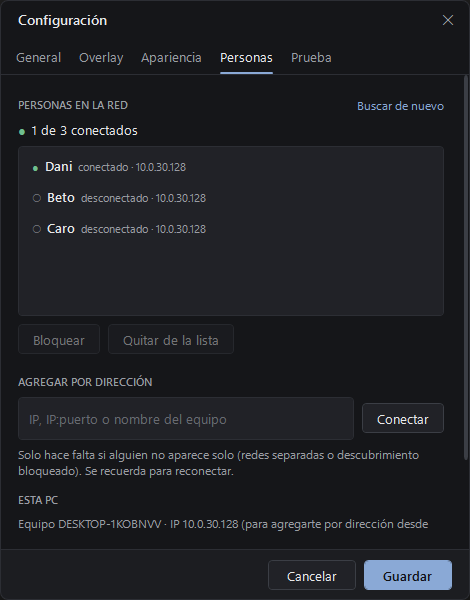
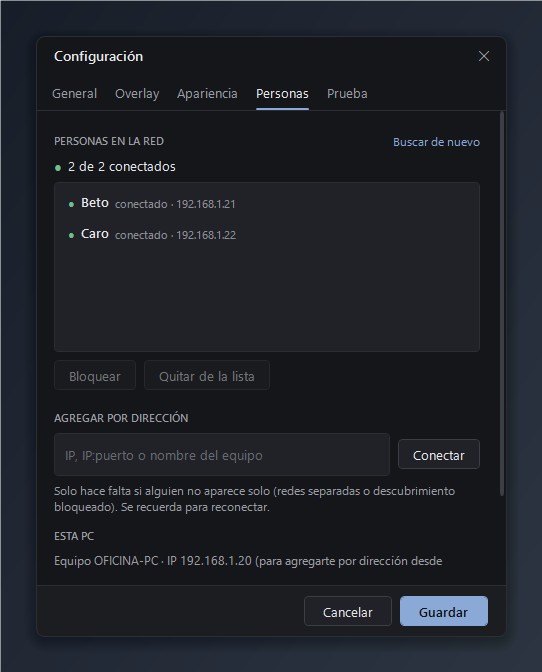
Mensajes importantes: se cierran con un clic (antes «urgentes»); versión 2.0.0
- El botón y la etiqueta pasan de «Urgente» a «Importante» (Ctrl+I; Ctrl+U sigue funcionando).

- Los importantes quedan en pantalla hasta que se les hace clic: reciben el clic pero no toman el foco (MA_NOACTIVATE). El «Visto» se envía al hacer clic.

- Capturas actualizadas sin datos del equipo; README, PROTOCOL y CLAUDE.md al día.

diff --git a/src/Susurro.App/Views/SettingsWindow.xaml b/src/Susurro.App/Views/SettingsWindow.xaml
@@ -124,7 +124,7 @@
 
                         <StackPanel Orientation="Horizontal" Margin="0,16,0,0">
                             <Button Content="Probar" Click="TestNormal_Click" MinWidth="88" ToolTip="Muestra un mensaje de prueba con esta configuración (sin guardar)" />
-                            <Button Content="Probar urgente" Click="TestUrgent_Click" Margin="8,0,0,0" />
+                            <Button Content="Probar importante" Click="TestUrgent_Click" Margin="8,0,0,0" />
                         </StackPanel>
                     </StackPanel>
                 </ScrollViewer>
@@ -177,18 +177,18 @@
                         <TextBlock Style="{StaticResource Caption}" Margin="0,2,0,0"
                                    Text="Sin recuadro, el texto flota como un subtítulo de película; conviene dejar activado el contorno para que se lea sobre fondos claros." />
 
-                        <TextBlock Text="URGENTES Y ACCESIBILIDAD" Style="{StaticResource SectionHeader}" />
+                        <TextBlock Text="IMPORTANTES Y ACCESIBILIDAD" Style="{StaticResource SectionHeader}" />
                         <Grid Style="{StaticResource Row}">
                             <Grid.ColumnDefinitions><ColumnDefinition Width="150" /><ColumnDefinition /></Grid.ColumnDefinitions>
-                            <TextBlock Text="Mensajes urgentes" Style="{StaticResource FieldLabel}" />
+                            <TextBlock Text="Mensajes importantes" Style="{StaticResource FieldLabel}" />
                             <ComboBox x:Name="UrgentCombo" Grid.Column="1" SelectionChanged="Appearance_Changed" />
                         </Grid>
                         <CheckBox x:Name="ContrastBox" Content="Alto contraste" Margin="0,8,0,5" Checked="Appearance_Changed" Unchecked="Appearance_Changed" />
 
                         <StackPanel Orientation="Horizontal" Margin="0,14,0,0">
                             <Button Content="Probar en pantalla" Click="TestNormal_Click" />
-                            <Button Content="Probar urgente" Click="TestUrgent_Click" Margin="8,0,0,0" />
-                            <Button x:Name="PreviewUrgentButton" Content="Ver urgente en la vista previa" Style="{StaticResource LinkButton}" Margin="14,0,0,0" FontSize="12" Click="PreviewUrgent_Click" />
+                            <Button Content="Probar importante" Click="TestUrgent_Click" Margin="8,0,0,0" />
+                            <Button x:Name="PreviewUrgentButton" Content="Ver importante en la vista previa" Style="{StaticResource LinkButton}" Margin="14,0,0,0" FontSize="12" Click="PreviewUrgent_Click" />
                         </StackPanel>
                     </StackPanel>
                 </ScrollViewer>
@@ -250,7 +250,7 @@
                                    Text="Muestra un mensaje solo en esta PC, con la configuración actual de la pestaña Overlay (aunque todavía no esté guardada)." />
                         <StackPanel Orientation="Horizontal">
                             <Button Content="Mostrar mensaje de prueba" Style="{StaticResource PrimaryButton}" Click="TestNormal_Click" />
-                            <Button Content="Probar urgente" Click="TestUrgent_Click" Margin="8,0,0,0" />
+                            <Button Content="Probar importante" Click="TestUrgent_Click" Margin="8,0,0,0" />
                         </StackPanel>
 
                         <TextBlock Text="DIAGNÓSTICO" Style="{StaticResource SectionHeader}" />

diff --git a/src/Susurro.App/Views/MainWindow.xaml b/src/Susurro.App/Views/MainWindow.xaml
@@ -59,8 +59,8 @@
                      AutomationProperties.Name="Mensaje" />
 
             <Grid Margin="0,10,0,0">
-                <ToggleButton x:Name="UrgentToggle" Style="{StaticResource ChipToggle}" Content="Urgente" HorizontalAlignment="Left"
-                              ToolTip="Enviar como urgente (Ctrl+U)" FontSize="12" />
+                <ToggleButton x:Name="UrgentToggle" Style="{StaticResource ChipToggle}" Content="Importante" HorizontalAlignment="Left"
+                              ToolTip="Mensaje importante: queda en pantalla hasta que la otra persona le haga clic (Ctrl+I)" FontSize="12" />
                 <TextBlock x:Name="Counter" HorizontalAlignment="Center" VerticalAlignment="Center" FontSize="11"
                            Foreground="{StaticResource FaintBrush}" Visibility="Collapsed" />
                 <Button x:Name="SendButton" Style="{StaticResource PrimaryButton}" HorizontalAlignment="Right" MinWidth="96" Click="Send_Click"

diff --git a/src/Susurro.App/Themes/Dark.xaml b/src/Susurro.App/Themes/Dark.xaml
@@ -193,7 +193,7 @@
         </Setter>
     </Style>
 
-    <!-- Chip conmutable ("Urgente"). -->
+    <!-- Chip conmutable ("Importante"). -->
     <Style x:Key="ChipToggle" TargetType="ToggleButton">
         <Setter Property="Foreground" Value="{StaticResource MutedBrush}" />
         <Setter Property="Height" Value="26" />

diff --git a/src/Susurro.App/Overlay/OverlayHost.cs b/src/Susurro.App/Overlay/OverlayHost.cs
@@ -16,7 +16,9 @@ namespace Susurro.App.Overlay;
 /// Se implementa con un <see cref="HwndSource"/> (no un Window de WPF) para controlar exactamente
 /// los estilos Win32:
 ///  - WS_EX_NOACTIVATE + SW_SHOWNOACTIVATE: nunca roba el foco del teclado.
-///  - WS_EX_TRANSPARENT + ventana en capas: los clics atraviesan el overlay.
+///  - WS_EX_TRANSPARENT + ventana en capas: los clics atraviesan el overlay. Excepción: los mensajes
+///    importantes reciben el clic (para cerrarlos), pero siguen sin activarse ni tomar el foco
+///    (WS_EX_NOACTIVATE + MA_NOACTIVATE).
 ///  - WS_EX_TOOLWINDOW sin propietario: no aparece en Alt+Tab ni en la barra de tareas.
 ///  - WS_EX_TOPMOST: por encima de las ventanas normales.
 /// Se crea directamente sobre el monitor destino, así WPF adopta el DPI de ese monitor
@@ -29,18 +31,20 @@ internal sealed class OverlayHost : IDisposable
     private readonly Border _card;
     private readonly TranslateTransform _shift = new();
     private readonly bool _animate;
+    private readonly bool _clickToClose;
     private bool _disposed;
 
     public OverlayHost(WhisperMessage message, OverlaySettings settings)
     {
         var monitor = MonitorService.Resolve(settings.Monitor);
         _animate = settings.Animations && SystemParameters.ClientAreaAnimation;
+        _clickToClose = message.Urgent;
 
         var parameters = new HwndSourceParameters("SusurroOverlay")
         {
             WindowStyle = NativeMethods.WS_POPUP,
             ExtendedWindowStyle = NativeMethods.WS_EX_TOPMOST | NativeMethods.WS_EX_TOOLWINDOW |
-                                  NativeMethods.WS_EX_NOACTIVATE | NativeMethods.WS_EX_TRANSPARENT,
+                                  NativeMethods.WS_EX_NOACTIVATE | (_clickToClose ? 0 : NativeMethods.WS_EX_TRANSPARENT),
             UsesPerPixelTransparency = true,
             // Crear la ventana (oculta) dentro del monitor destino para heredar su DPI.
             PositionX = monitor.WorkArea.Left + monitor.WorkArea.Width / 2,
@@ -50,11 +54,17 @@ internal sealed class OverlayHost : IDisposable
         };
         _source = new HwndSource(parameters) { SizeToContent = SizeToContent.Manual };
         _source.AddHook(WndProc);
-        EnsureExStyles(_source.Handle);
+        EnsureExStyles(_source.Handle, _clickToClose);
 
         _card = SubtitleVisual.Build(message, settings);
         _card.RenderTransform = _shift;
-        var root = new Grid { Background = Brushes.Transparent, IsHitTestVisible = false };
+        var root = new Grid { Background = Brushes.Transparent, IsHitTestVisible = _clickToClose };
+        if (_clickToClose)
+        {
+            _card.Cursor = System.Windows.Input.Cursors.Hand;
+            _card.MouseLeftButtonUp += (_, _) => Dismissed?.Invoke();
+            _card.MouseRightButtonUp += (_, _) => Dismissed?.Invoke();
+        }
         root.Children.Add(_card);
         _source.RootVisual = root;
 
@@ -62,6 +72,9 @@ internal sealed class OverlayHost : IDisposable
     }
 
     public IntPtr Handle => _source.Handle;
+
+    /// <summary>Se hizo clic en un mensaje importante (solo esos reciben clics).</summary>
+    public event Action? Dismissed;
 
     public void Show()
     {
@@ -184,22 +197,23 @@ internal sealed class OverlayHost : IDisposable
         NativeMethods.SetWindowPos(_source.Handle, NativeMethods.HWND_TOPMOST, x, y, w, h, NativeMethods.SWP_NOACTIVATE);
     }
 
-    private static void EnsureExStyles(IntPtr hwnd)
+    private static void EnsureExStyles(IntPtr hwnd, bool clickable)
     {
         var ex = NativeMethods.GetWindowLongPtr(hwnd, NativeMethods.GWL_EXSTYLE).ToInt64();
-        ex |= NativeMethods.WS_EX_TOPMOST | NativeMethods.WS_EX_TOOLWINDOW | NativeMethods.WS_EX_NOACTIVATE |
-              NativeMethods.WS_EX_TRANSPARENT | NativeMethods.WS_EX_LAYERED;
+        ex |= NativeMethods.WS_EX_TOPMOST | NativeMethods.WS_EX_TOOLWINDOW | NativeMethods.WS_EX_NOACTIVATE | NativeMethods.WS_EX_LAYERED;
+        if (clickable) ex &= ~(long)NativeMethods.WS_EX_TRANSPARENT;
+        else ex |= NativeMethods.WS_EX_TRANSPARENT;
         NativeMethods.SetWindowLongPtr(hwnd, NativeMethods.GWL_EXSTYLE, new IntPtr(ex));
     }
 
-    private static IntPtr WndProc(IntPtr hwnd, int msg, IntPtr wParam, IntPtr lParam, ref bool handled)
+    private IntPtr WndProc(IntPtr hwnd, int msg, IntPtr wParam, IntPtr lParam, ref bool handled)
     {
         switch (msg)
         {
             case NativeMethods.WM_MOUSEACTIVATE:
                 handled = true;
                 return new IntPtr(NativeMethods.MA_NOACTIVATE);
-            case NativeMethods.WM_NCHITTEST:
+            case NativeMethods.WM_NCHITTEST when !_clickToClose:
                 handled = true;
                 return new IntPtr(NativeMethods.HTTRANSPARENT);
         }

diff --git a/src/Susurro.App/Overlay/SubtitleVisual.cs b/src/Susurro.App/Overlay/SubtitleVisual.cs
@@ -31,7 +31,9 @@ internal static class SubtitleVisual
         var background = s.ShowBackground || hc;
         var alpha = (byte)Math.Round(255 * (hc ? Math.Max(0.95, s.Opacity) : s.Opacity));
 
-        Brush bg = !background ? Brushes.Transparent
+        // Los importantes se cierran con un clic: sin recuadro se usa un fondo casi invisible
+        // (alfa 1) para que toda la tarjeta reciba el clic y no solo las letras.
+        Brush bg = !background ? (urgent ? new SolidColorBrush(Color.FromArgb(1, 0, 0, 0)) : Brushes.Transparent)
             : hc ? new SolidColorBrush(Color.FromArgb(alpha, 0, 0, 0))
             : urgent && s.UrgentStyle == UrgentStyle.Tinted ? new SolidColorBrush(Color.FromArgb(alpha, 38, 27, 16))
             : new SolidColorBrush(Color.FromArgb(alpha, 17, 18, 21));
@@ -51,9 +53,9 @@ internal static class SubtitleVisual
 
         string? label = null;
         if (s.ShowSenderName && !string.IsNullOrWhiteSpace(message.SenderName))
-            label = urgent ? $"{message.SenderName} · urgente" : message.SenderName;
+            label = urgent ? $"{message.SenderName} · importante" : message.SenderName;
         else if (urgent)
-            label = "urgente";
+            label = "importante";
 
         if (label != null)
         {
@@ -83,6 +85,19 @@ internal static class SubtitleVisual
             Tag = "text",
         };
         panel.Children.Add(text);
+
+        if (urgent)
+        {
+            panel.Children.Add(new TextBlock
+            {
+                Text = "Clic para cerrar",
+                Foreground = new SolidColorBrush(labelColor) { Opacity = 0.85 },
+                FontFamily = Font,
+                HorizontalAlignment = HorizontalAlignment.Center,
+                TextAlignment = TextAlignment.Center,
+                Tag = "hint",
+            });
+        }
 
         if (s.TextOutline && !hc)
         {
@@ -118,6 +133,11 @@ internal static class SubtitleVisual
             {
                 tb.FontSize = Math.Max(10, Math.Round(size * 0.5));
                 tb.Margin = new Thickness(0, 0, 0, Math.Round(size * 0.2));
+            }
+            else if ((string)tb.Tag == "hint")
+            {
+                tb.FontSize = Math.Max(10, Math.Round(size * 0.45));
+                tb.Margin = new Thickness(0, Math.Round(size * 0.3), 0, 0);
             }
             else
             {

diff --git a/src/Susurro.App/Overlay/OverlayController.cs b/src/Susurro.App/Overlay/OverlayController.cs
@@ -9,7 +9,8 @@ namespace Susurro.App.Overlay;
 
 /// <summary>
 /// Orquesta el overlay: un mensaje a la vez, cola acotada, temporizadores de un solo disparo
-/// (sin bucles ni sondeo). Todo ocurre en el hilo de UI.
+/// (sin bucles ni sondeo). Los mensajes normales se van solos; los importantes quedan hasta que
+/// se les hace clic (mientras tanto, los que llegan esperan en la cola). Todo ocurre en el hilo de UI.
 /// </summary>
 internal sealed class OverlayController
 {
@@ -85,9 +86,12 @@ internal sealed class OverlayController
         }
 
         var settings = _overrides.Remove(next.Id, out var preview) ? preview : _settings;
+        // Los importantes quedan en pantalla hasta que se les hace clic.
+        var clickToClose = next.Urgent;
         try
         {
             _host = new OverlayHost(next, settings);
+            if (clickToClose) _host.Dismissed += OnDismissed;
             _host.Show();
         }
         catch (Exception ex)
@@ -100,13 +104,27 @@ internal sealed class OverlayController
             return;
         }
 
-        try { _onShown(next); }
-        catch (Exception ex) { Log.Error("overlay", "Error notificando mensaje mostrado", ex); }
+        if (clickToClose) return; // "Visto" y cierre, al hacer clic
+
+        NotifyShown(next);
 
         // Duración configurada + un poco de tiempo de lectura para textos largos (máx. +4 s).
         var extra = Math.Clamp((next.Text.Length - 80) / 40.0, 0, 4);
         _hold.Interval = TimeSpan.FromSeconds(settings.DurationSeconds + extra);
         _hold.Start();
+    }
+
+    private void OnDismissed()
+    {
+        if (_hiding || _host == null) return;
+        if (_queue.Current is { } current) NotifyShown(current); // para un importante, "Visto" = le hicieron clic
+        EndCurrent();
+    }
+
+    private void NotifyShown(WhisperMessage message)
+    {
+        try { _onShown(message); }
+        catch (Exception ex) { Log.Error("overlay", "Error notificando mensaje mostrado", ex); }
     }
 
     private void EndCurrent()

diff --git a/src/Susurro.Core/Net/PeerLink.cs b/src/Susurro.Core/Net/PeerLink.cs
@@ -425,7 +425,7 @@ public sealed class PeerLink : IAsyncDisposable
                     if (stillQueued) m.SentOnSession = s.Number;
                 }
                 if (!stillQueued) continue;
-                Log.Info("msg", $"Mensaje enviado a {peer.Contact.Name} [{m.Id[..8]}] ({m.Packet.Text?.Length ?? 0} caracteres{(m.Packet.Urgent == true ? ", urgente" : "")})");
+                Log.Info("msg", $"Mensaje enviado a {peer.Contact.Name} [{m.Id[..8]}] ({m.Packet.Text?.Length ?? 0} caracteres{(m.Packet.Urgent == true ? ", importante" : "")})");
                 DeliveryChanged?.Invoke(m.Id, DeliveryState.Sent);
             }
         }
@@ -539,7 +539,7 @@ public sealed class PeerLink : IAsyncDisposable
         if (sender.Length == 0) sender = session.PeerName;
         else if (sender != session.PeerName) UpdatePeerInfo(session, sender);
         var message = new WhisperMessage(id, text, sender, sentAt, p.Urgent == true, p.Seq ?? 0, p.Receipt == true, SenderId: session.PeerId);
-        Log.Info("msg", $"Mensaje recibido de {sender} [{id[..8]}] ({text.Length} caracteres{(message.Urgent ? ", urgente" : "")})");
+        Log.Info("msg", $"Mensaje recibido de {sender} [{id[..8]}] ({text.Length} caracteres{(message.Urgent ? ", importante" : "")})");
         MessageReceived?.Invoke(message);
     }
 

diff --git a/src/Susurro.App/Views/SettingsWindow.xaml.cs b/src/Susurro.App/Views/SettingsWindow.xaml.cs
@@ -435,7 +435,7 @@ public partial class SettingsWindow : Window
     private void PreviewUrgent_Click(object sender, RoutedEventArgs e)
     {
         _previewUrgent = !_previewUrgent;
-        PreviewUrgentButton.Content = _previewUrgent ? "Ver mensaje normal en la vista previa" : "Ver urgente en la vista previa";
+        PreviewUrgentButton.Content = _previewUrgent ? "Ver mensaje normal en la vista previa" : "Ver importante en la vista previa";
         UpdatePreview();
     }
 

diff --git a/src/Susurro.App/Views/MainWindow.xaml.cs b/src/Susurro.App/Views/MainWindow.xaml.cs
@@ -323,7 +323,7 @@ public partial class MainWindow : Window
             e.Handled = true;
             _app.HideMain();
         }
-        else if (e.Key == Key.U && Keyboard.Modifiers == ModifierKeys.Control)
+        else if (e.Key is Key.I or Key.U && Keyboard.Modifiers == ModifierKeys.Control) // Ctrl+I (Ctrl+U por costumbre)
         {
             e.Handled = true;
             UrgentToggle.IsChecked = UrgentToggle.IsChecked != true;

diff --git a/README.md b/README.md
@@ -28,7 +28,8 @@ Sin servidor · sin nube · sin cuentas · sin códigos · sin sonidos · sin ro
 
 Elegís a quién (o a todos los conectados), escribís y, en su PC, el mensaje aparece unos segundos
 **por encima de todo**, como un subtítulo. Quien lo recibe puede seguir escribiendo en Word, en el navegador o en Visual Studio:
-Susurro **no toma el foco, no captura el mouse ni el teclado, no aparece en Alt+Tab** y los clics lo atraviesan.
+Susurro **no toma el foco, no captura el mouse ni el teclado, no aparece en Alt+Tab** y los clics lo atraviesan. Los mensajes **importantes** son la excepción: quedan en
+pantalla hasta que les hacés clic (igual sin quitarle el foco a lo que estés usando).
 
 <table>
   <tr>
@@ -41,7 +42,7 @@ Susurro **no toma el foco, no captura el mouse ni el teclado, no aparece en Alt+
 
 - <kbd>Ctrl</kbd>+<kbd>Shift</kbd>+<kbd>Espacio</kbd> desde **cualquier programa** abre Susurro listo para escribir
 - **Para:** una persona o todos los conectados · <kbd>Ctrl</kbd>+<kbd>↑</kbd>/<kbd>↓</kbd> cambia mientras escribís
-- <kbd>Enter</kbd> envía y te devuelve a lo que estabas · <kbd>Ctrl</kbd>+<kbd>U</kbd> urgente · <kbd>Esc</kbd> oculta
+- <kbd>Enter</kbd> envía y te devuelve a lo que estabas · <kbd>Ctrl</kbd>+<kbd>I</kbd> importante · <kbd>Esc</kbd> oculta
 - Máximo 300 caracteres; el campo se limpia y conserva el foco
 - `Enviado` → `Entregado ✓` → `Visto ✓`
 - Vive en la bandeja del sistema y arranca con Windows
@@ -64,7 +65,7 @@ Susurro **no toma el foco, no captura el mouse ni el teclado, no aparece en Alt+
 | 🔁 **Reconexión automática** | PC apagada, reiniciada, suspendida o red caída: se reconecta sola y entrega lo que quedó en espera. |
 | 🔐 **Seguro sin contraseñas** | Cada PC tiene una identidad de clave pública (su id es el hash de la clave): nadie puede hacerse pasar por otra. Autenticación mutua y AES-256-GCM. Podés bloquear a quien quieras. |
 | 🎬 **Overlay tipo subtítulo** | Posición, monitor, duración, tamaño, color (blanco / amarillo / gris), recuadro opcional y contorno de letras. |
-| ⚡ **Urgentes discretos** | Una diferencia visual sutil (borde ámbar, negrita o fondo cálido), nunca sonidos ni ventanas emergentes. |
+| 📌 **Importantes** | Quedan en pantalla hasta que les hacés clic, sin robar el foco; el *Visto* le llega a quien lo mandó recién en ese momento. Sin sonidos ni ventanas emergentes. |
 | 🖥 **Multimonitor y DPI** | Monitor automático, principal o específico; nítido al 100, 125, 150 y 200 %; el texto nunca se corta. |
 | ♿ **Accesible** | Tamaño de fuente, alto contraste, animaciones desactivables; respeta la configuración de Windows. |
 
@@ -77,8 +78,8 @@ Susurro **no toma el foco, no captura el mouse ni el teclado, no aparece en Alt+
       <sub><b>Estilo cine</b> — amarillo, sin recuadro y con contorno</sub>
     </td>
     <td align="center" width="50%">
-      <img src="docs/assets/urgente.png" alt="Mensaje urgente" width="100%"><br>
-      <sub><b>Urgente</b> — distinto, pero igual de discreto</sub>
+      <img src="docs/assets/importante.png" alt="Mensaje importante" width="100%"><br>
+      <sub><b>Importante</b> — queda hasta que le hacés clic</sub>
     </td>
   </tr>
   <tr>
@@ -394,12 +395,17 @@ alguien conectado y gris si no; al pasar el mouse dice cuántas personas. Cerrar
 - Ventana Win32 creada con `HwndSource` y estilos `WS_EX_NOACTIVATE | WS_EX_TRANSPARENT |
   WS_EX_LAYERED | WS_EX_TOOLWINDOW | WS_EX_TOPMOST`, mostrada con `SW_SHOWNOACTIVATE`:
   - **nunca roba el foco** (seguís escribiendo en Word, el navegador, Visual Studio…);
-  - **los clics lo atraviesan**;
+  - **los clics lo atraviesan** (salvo en los importantes, ver abajo);
   - **no aparece en Alt+Tab ni en la barra de tareas**;
   - no captura teclado ni mouse, no minimiza ni toca la aplicación activa.
 - Un mensaje a la vez. Los que llegan mientras hay uno visible esperan en una cola (máx. 20); los
-  urgentes pasan delante de los normales pendientes, sin interrumpir al actual.
+  importantes pasan delante de los normales pendientes, sin interrumpir al actual.
 - Duración configurable (2, 5, 8 o 10 s) + hasta 4 s extra de lectura para textos largos.
+- **Mensajes importantes** (botón *Importante* o <kbd>Ctrl</kbd>+<kbd>I</kbd> al escribir): no se van
+  solos, quedan en pantalla con la leyenda *Clic para cerrar* hasta que se les hace clic. Esa ventana
+  recibe el clic pero sigue sin activarse (`WS_EX_NOACTIVATE` + `MA_NOACTIVATE`): el foco no se mueve
+  de la aplicación en uso. Con *Confirmar recepción*, quien lo mandó ve *Visto ✓* recién al clic.
+  Mientras un importante espera, los mensajes que llegan quedan en la cola.
 - Animación de entrada (200 ms) y salida (320 ms) muy sutiles; se desactivan si lo pedís o si
   Windows tiene las animaciones apagadas.
 - **Multimonitor**: *Automático* (el monitor de la ventana en uso), *Monitor principal* o un monitor
@@ -415,7 +421,7 @@ alguien conectado y gris si no; al pasar el mouse dice cuántas personas. Cerrar
 |---|---|
 | **General** | Tu nombre · Iniciar con Windows · Iniciar minimizado · Icono en la bandeja · **Atajo de teclado** · Confirmar recepción |
 | **Overlay** | Monitor · Posición (7 opciones) · Distancia al borde · Ancho máximo · Duración · Animaciones · Probar |
-| **Apariencia** | Vista previa en vivo · **Color del texto** (blanco, amarillo, gris claro) · Tamaño · **Contorno de las letras** · Nombre del remitente · **Recuadro de fondo** (on/off) · Opacidad · Estilo de urgentes · Alto contraste |
+| **Apariencia** | Vista previa en vivo · **Color del texto** (blanco, amarillo, gris claro) · Tamaño · **Contorno de las letras** · Nombre del remitente · **Recuadro de fondo** (on/off) · Opacidad · Estilo de importantes · Alto contraste |
 | **Personas** | Lista con estado e IP · Buscar de nuevo · Bloquear / Desbloquear · Quitar de la lista · Agregar por dirección · IP local · Puerto |
 | **Prueba** | Mostrar mensaje de prueba (solo en esta PC, con la configuración sin guardar) · Ver registro · Carpeta de datos |
 
@@ -453,7 +459,7 @@ dotnet test tests/Susurro.Core.Tests
   tramas (tamaño máximo, truncadas, EOF), AES-GCM (manipulación, repetición, reordenamiento, otra clave).
 - **Identidad**: id = hash de la clave pública, misma clave de enlace en ambos lados y distinta para
   un tercero, claves inválidas, identidad guardada/ilegible, DPAPI.
-- **Validación y cola**: limpieza de texto, límites, duplicados, orden, urgentes, capacidad.
+- **Validación y cola**: limpieza de texto, límites, duplicados, orden, importantes, capacidad.
 - **Reconexión**: backoff, arbitraje de conexiones duplicadas.
 - **Configuración**: valores por defecto (sin nombre del equipo), persistencia, contactos inválidos
   o repetidos, límite de contactos, migración desde la versión con códigos, archivo corrupto, clon profundo.

diff --git a/CLAUDE.md b/CLAUDE.md
@@ -61,6 +61,9 @@ Claves del modelo:
 - **Publicación**: single-file autocontenido, **sin compresión** (duplica la RAM) y **sin trimming** (WPF no lo admite).
 - **El overlay nunca toma el foco**: `HwndSource` con `WS_EX_NOACTIVATE | WS_EX_TRANSPARENT | WS_EX_LAYERED |
   WS_EX_TOOLWINDOW | WS_EX_TOPMOST` y `SW_SHOWNOACTIVATE`. Medido en píxeles físicos con DPI PerMonitorV2.
+  Única excepción al click-through: los mensajes **importantes** (`Urgent` en el protocolo) no llevan
+  `WS_EX_TRANSPARENT` y se cierran con un clic, pero siguen sin activarse (`MA_NOACTIVATE`). No se van
+  solos, y su `ack shown` ("Visto") se envía al hacer clic.
 - **Seguridad**: no confiar en la IP, en el nombre ni en datos de descubrimiento; verificar siempre
   `id == hash(clave)` y la prueba HMAC antes de aceptar a alguien. Validar tamaños de trama **antes** de
   reservar memoria. La clave privada en disco se protege con DPAPI. Cambios de protocolo → subir

diff --git a/docs/PROTOCOL.md b/docs/PROTOCOL.md
@@ -80,7 +80,8 @@ profile { name }                       ← cambio de nombre de la persona
 * Cada mensaje va a **una** persona. "Todos los conectados" envía una copia (con su propio
   `msgId`) a cada persona conectada; la ventana resume "Entregado a 3 de 4".
 * **Enviado / Entregado / Visto**: `Sent` al escribir en el socket, `Delivered` al recibir
-  `ack received`, `Shown` al recibir `ack shown` (el overlay lo mostró).
+  `ack received`, `Shown` al recibir `ack shown` (el overlay lo mostró; en un mensaje importante
+  —`urgent: true`— recién cuando la persona le hizo clic para cerrarlo).
 * **Bandeja de salida**: si no hay conexión con esa persona, el mensaje espera hasta **2 minutos**
   (máx. 20 en espera por persona). Al reconectar se envían en orden. Si una sesión cae con mensajes
   sin confirmar, se reenvían en la siguiente.
